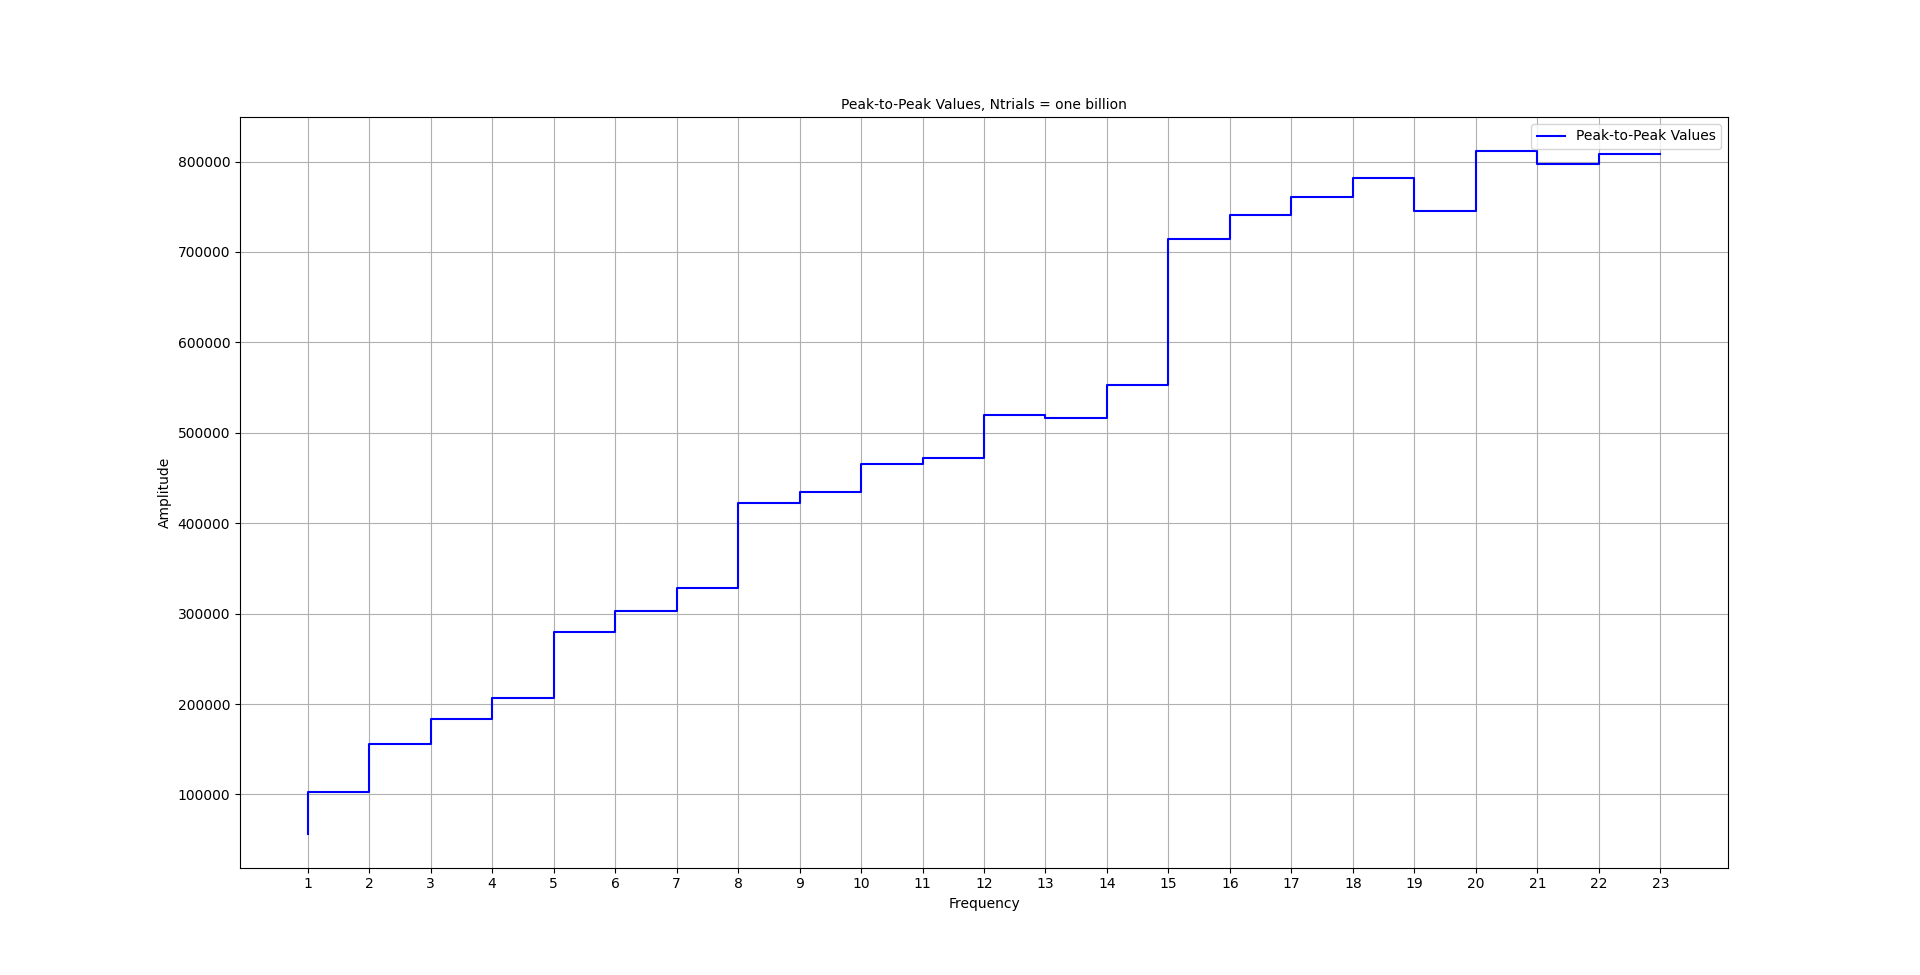
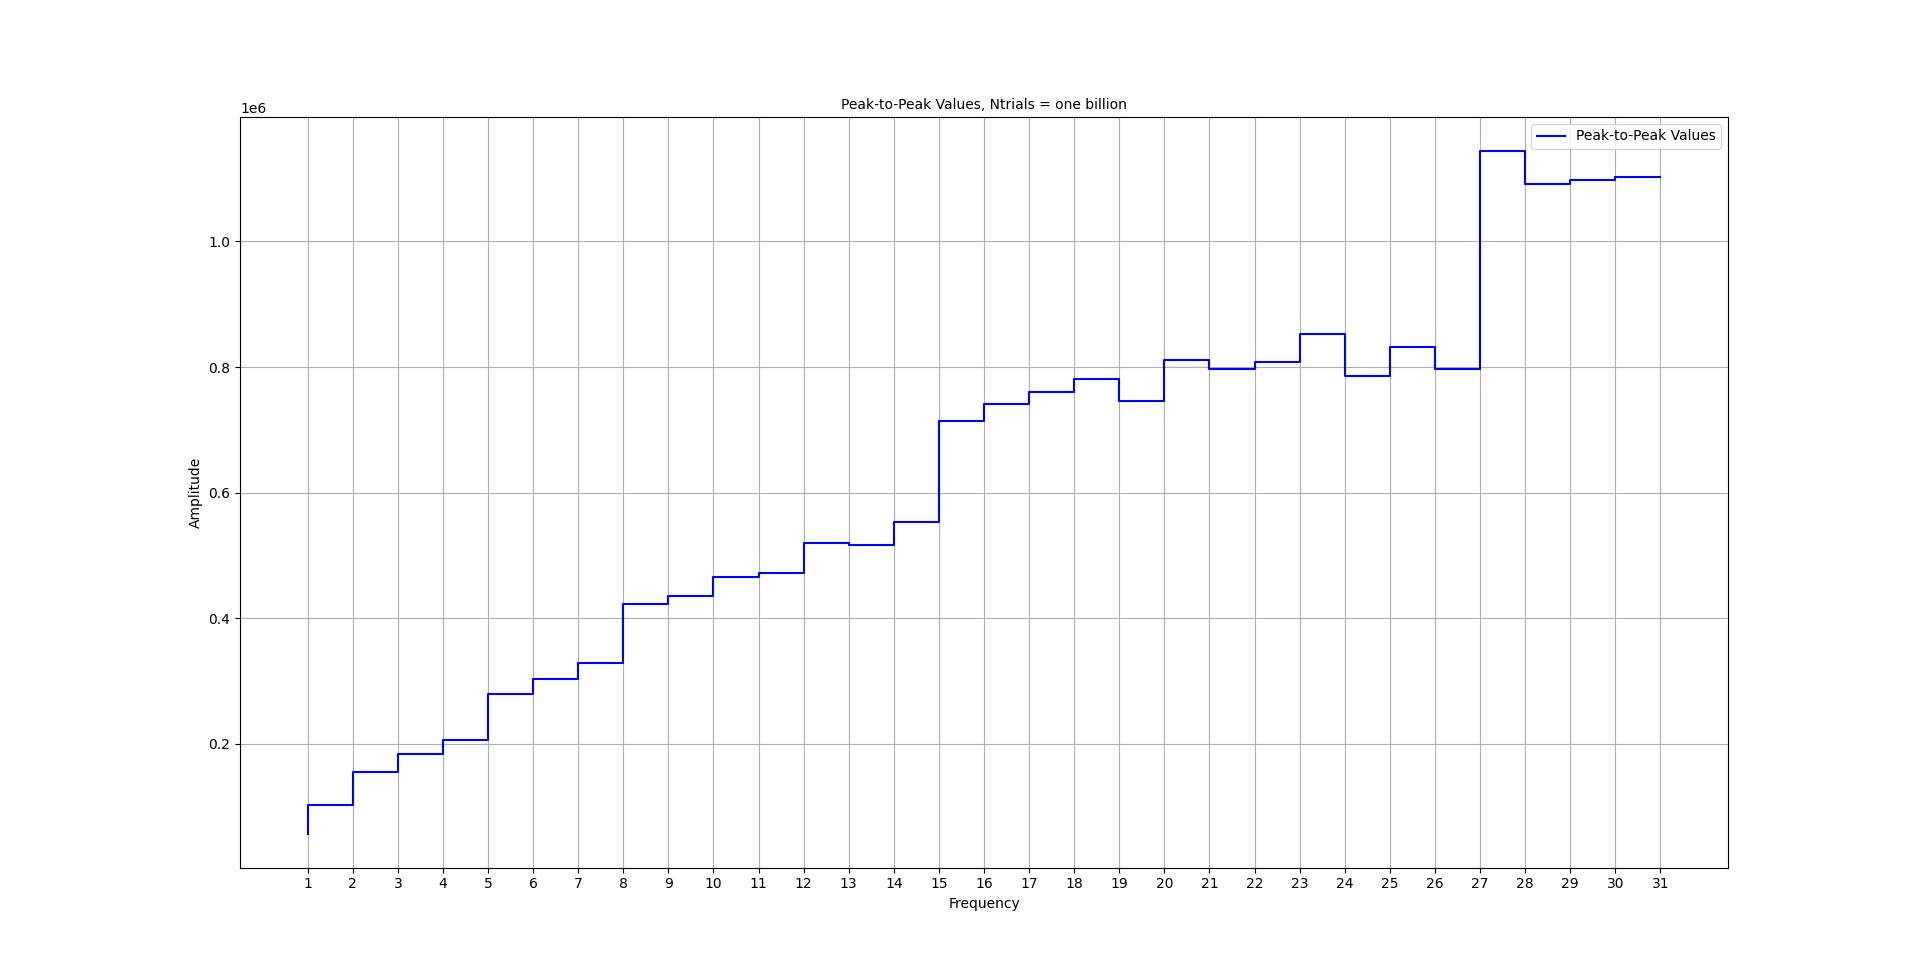
update.

diff --git a/Galton Board/Galton_Board.cpp b/Galton Board/Galton_Board.cpp
@@ -13,7 +13,7 @@ int main(int argc, char** argv)
 
 	/***************SETTINGS*****************/
 
-	std::uint64_t Ntrials = 1000000000;
+	std::uint64_t Ntrials = 10000000;
 
 	//Wave cycles or threads  
 	U Ncycles = 31;
@@ -119,9 +119,9 @@ int main(int argc, char** argv)
 	std::cout << " NBins             " << Nbins << std::endl << std::endl;
 
 	typedef std::uint64_t L;
-	std::tuple<R, U, L> tuple;
+	std::multiset<L> multiset = {};
 
-	std::vector < std::future <decltype(tuple)>> vecOfThreads;
+	std::vector < std::future <decltype(multiset)>> vecOfThreads;
 
 	std::vector<std::vector<std::vector<std::uint64_t>>>
 		galton_arr(N_Integrations, std::vector<std::vector<std::uint64_t>>
@@ -132,26 +132,34 @@ int main(int argc, char** argv)
 	for (U i = 0; i < N_Integrations; i++)
 		for (U k = 0; k < Ncycles; k++)
 			vecOfThreads.push_back(std::async([&, i, k] {
-			return Galton<R>(Ntrials / N_Integrations, Initial_Board_size, Ncycles, galton_arr[i][k], Probability_wave); }));
+			return Galton(Ntrials / N_Integrations, Initial_Board_size, Ncycles, galton_arr[i][k], Probability_wave); }));
 
 	for (auto& th : vecOfThreads)
-		tuple = th.get();
+		multiset = th.get();
 
 	auto end = std::chrono::high_resolution_clock::now();
 
-	U Board_size = {};
+	L Board_size = {};
+	std::vector<L> multiset_vec = {};
 
 	if (Probability_wave)
 	{
+		for (auto& num : multiset) {
+			multiset_vec.push_back(num);
+		} 
 
 		std::cout << " Inital Board size " << Initial_Board_size << "[Boxes]" << std::endl;
-		Board_size = std::get<U>(tuple);
-		std::cout << " Board size        " << Board_size << "[Boxes]" << std::endl;
-		std::cout << std::endl << " RNG range         " << std::get<R>(tuple) << "[Boxes]" << std::endl << std::endl;
+		
+		Board_size = multiset_vec[1];
+		std::cout              << " Board size        " << Board_size << "[Boxes]" << std::endl;
+		std::cout << std::endl << " RNMag             " << multiset_vec[0] << "[Boxes]" << std::endl << std::endl;
 
-		auto Amplitude = std::get<std::uint64_t>(tuple);
-		std::cout << " Amplitude         " << Amplitude << std::endl;
-		std::cout << " Offset Calculated " << std::uint64_t(round((Ntrials / (double)Nbins) * Ncycles)) << " (Ntrials / Nbins) x Ncycles"
+		auto Amplitude = multiset_vec[2];
+		std::cout << " Amplitude         " << Amplitude << std::endl << std::endl;
+		auto DC = multiset_vec.back();
+		
+		std::cout << " DC                " << DC << std::endl;
+		std::cout << " DC Calculated     " << std::uint64_t(round((Ntrials / (double)Nbins) * Ncycles)) << " (Ntrials / Nbins) x Ncycles"
 			<< std::endl << std::endl;
 	}
 
@@ -316,7 +324,8 @@ int main(int argc, char** argv)
 			plot.text(text_x_offset, -13, str, "purple", 11);
 
 			str = "RNMag=";
-			str += to_string_with_precision(R(std::get<R>(tuple)), 0);
+			auto rng_mag = multiset_vec.front();
+			str += to_string_with_precision(R(rng_mag), 0);
 			plot.text(text_x_offset, -18, str, "green", 11);
 
 			str = "Entropy=";

diff --git a/Galton Board/include/mxws.hpp b/Galton Board/include/mxws.hpp
@@ -11,6 +11,7 @@
 #include <numbers>
 #include <iostream>
 #include "../ziggurat.hpp"
+#include <set>
 
  
 template <typename RN>
@@ -407,12 +408,11 @@ public:
 		return std::numbers::sqrt2 * erf_inv(2 * p - 1);
 	}
 	
-	template <typename R, typename I, typename L>
+	template <typename I, typename L>
 		requires
-	std::same_as<R, double>&&
 		std::integral<I>&&
 		std::same_as<L, std::uint64_t>
-		std::tuple<R, I, L> Probability_Wave(const I& Initial_Board_size,
+		std::multiset<std::uint64_t> Probability_Wave(const I& Initial_Board_size,
 			std::vector<L>& cycle, const L& TRIALS) {
 
 		I Board_size;
@@ -431,10 +431,17 @@ public:
 			cycle[std::modulus()(random_walk * rn_range >> 32, Initial_Board_size)]++;
 			
 		}
-		auto Amplitude = std::uint64_t(round((*std::ranges::max_element(cycle) - *std::ranges::min_element(cycle)) / 2.));
-		L DC = *std::ranges::min_element(cycle) + std::uint64_t(round((*std::ranges::max_element(cycle) - *std::ranges::min_element(cycle)) / 2.));
+		auto Amplitude = std::uint64_t(round((*std::ranges::max_element(cycle) - *std::ranges::min_element(cycle))));
+		L DC = *std::ranges::min_element(cycle) + std::uint64_t(round(Amplitude/2.0));
 		
-		return std::make_tuple(rn_range, Board_size, Amplitude);
+		std::multiset<L> multiset;
+
+		multiset.insert(rn_range);
+		multiset.insert(Board_size);
+		multiset.insert(Amplitude);
+		multiset.insert(DC);
+
+		return multiset;
 	}
 
 	template <typename I>

diff --git a/Galton Board/functions.hpp b/Galton Board/functions.hpp
@@ -61,10 +61,10 @@ auto Galton_Classic = []<typename L, typename K>
 	}
 };
 
-template <typename R, typename A, typename I, typename B>
+template <typename A, typename I, typename B>
 	requires std::integral<I>&&
 std::same_as<A, uint64_t>
-std::tuple<R, I, A> Galton(
+std::multiset<A> Galton(
 	const A& trials,
 	const I& Board_SIZE,
 	const I& N_cycles,
@@ -74,17 +74,11 @@ std::tuple<R, I, A> Galton(
 	
 	mxws <uint32_t>RNG;
 
-	std::tuple<R, I, A> tuple;
 
-	if (probability_wave)
-		tuple = RNG.Probability_Wave<R>(Board_SIZE, galton_arr, trials);
+	std::multiset<A> multiset = RNG.Probability_Wave(Board_SIZE, galton_arr, trials);
 
-	else {
-		Galton_Classic(trials, galton_arr, 1.0, Board_SIZE / 2.0, false);
-		tuple = std::make_tuple(0., Board_SIZE, Board_SIZE);
-	}
 
-	return tuple;
+	return multiset;
 }
 
 std::vector<std::string> ones{ "","one", "two", "three", "four", "five", "six", "seven", "eight", "nine" };
